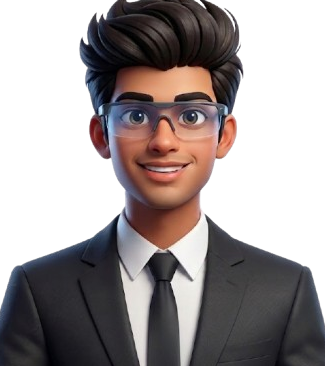
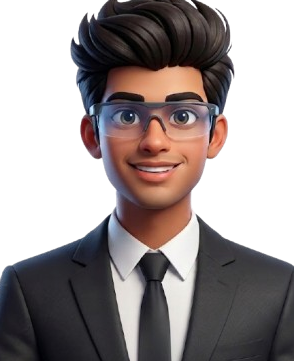
resume updae

diff --git a/client/src/Home.jsx b/client/src/Home.jsx
@@ -104,7 +104,7 @@ function App() {
                 whileTap={{ scale: 0.95 }}
               >
                 <a
-                  href="https://drive.google.com/file/d/1SbuDa71b_nvFYJ0zchh-9FHfXeoLGDnE/view"
+                  href="https://drive.google.com/file/d/1lHG2CIaA0fI0xCm7yuWV9GlhUFxfhPyC/view"
                   target="_blank"
                   rel="noopener noreferrer"
                 >
